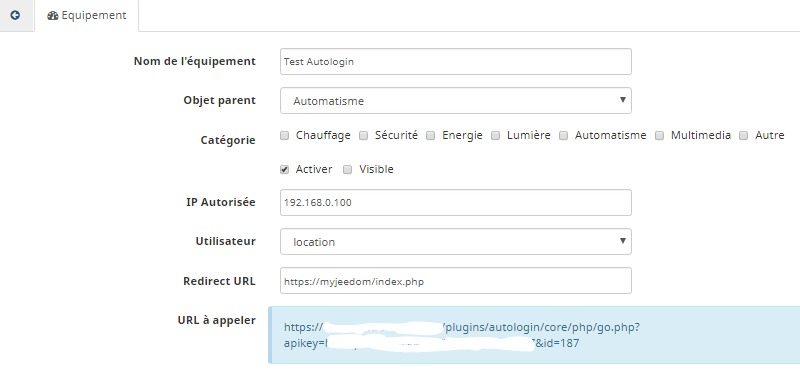
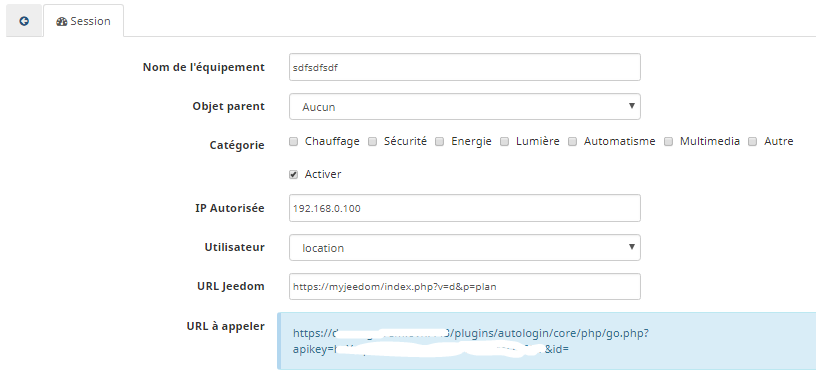
make it easier for session creation

diff --git a/core/class/autologin.class.php b/core/class/autologin.class.php
@@ -66,6 +66,18 @@ class autologin extends eqLogic {
         $this->deleteHash();
 	}
 
+	public function preSave() {
+        // first time only
+        if ($this->getLogicalId()=='') {
+    		if ( $this->getConfiguration('redirecturl', '') == '' ) {
+                $this->setConfiguration('redirecturl', network::getNetworkAccess('external'));
+            }
+            if ( $this->getConfiguration('ip', '') == '' ) {
+                $this->setConfiguration('ip', getClientIp());
+            }
+            $this->setIsEnable(1);
+        }
+	}
 
 	public function postSave() {
 	}
